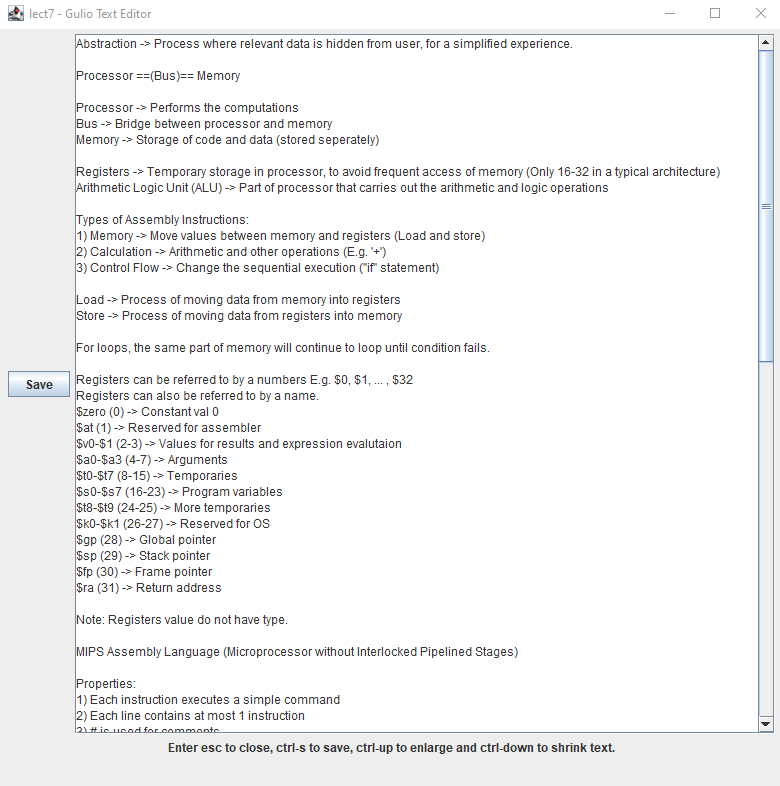
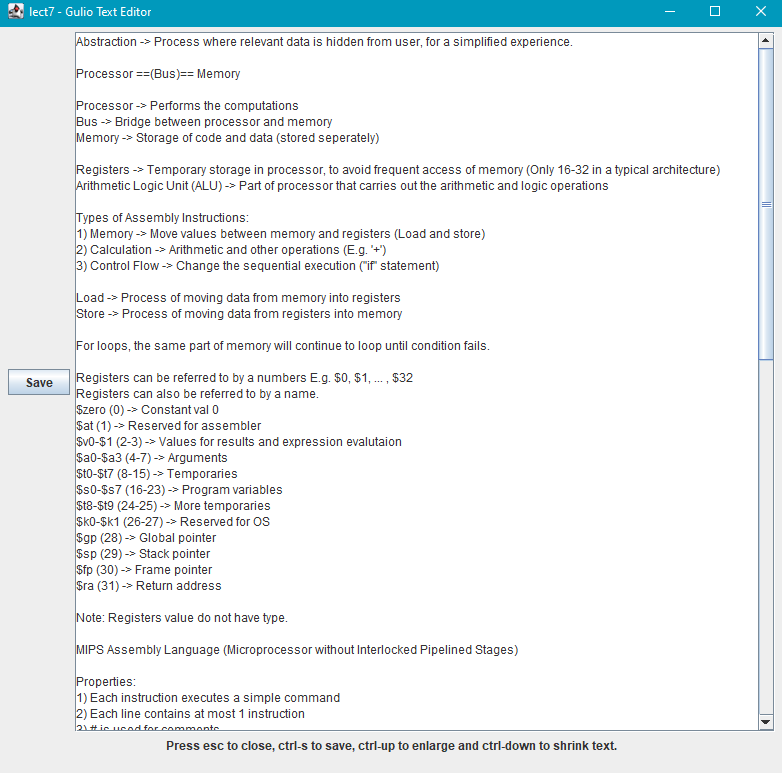
Fix text editor instruction

Changed region(s): [[0.0, 0.0931, 0.9231, 0.9935], [0.0, 0.0, 1.0, 0.9625]]

diff --git a/src/main/java/seedu/duke/common/Messages.java b/src/main/java/seedu/duke/common/Messages.java
@@ -183,6 +183,6 @@ public class Messages {
     public static final String MESSAGE_CLOSE_CHEATSHEET_FIRST = 
             "Please close the existing cheat-sheet first.";
     public static final String TEXT_EDITOR_INSTRUCTION = 
-            "Enter esc to close, ctrl-s to save, ctrl-up to enlarge and ctrl-down to shrink text.";
+            "Press esc to close, ctrl-s to save, ctrl-up to enlarge and ctrl-down to shrink text.";
 
 }
